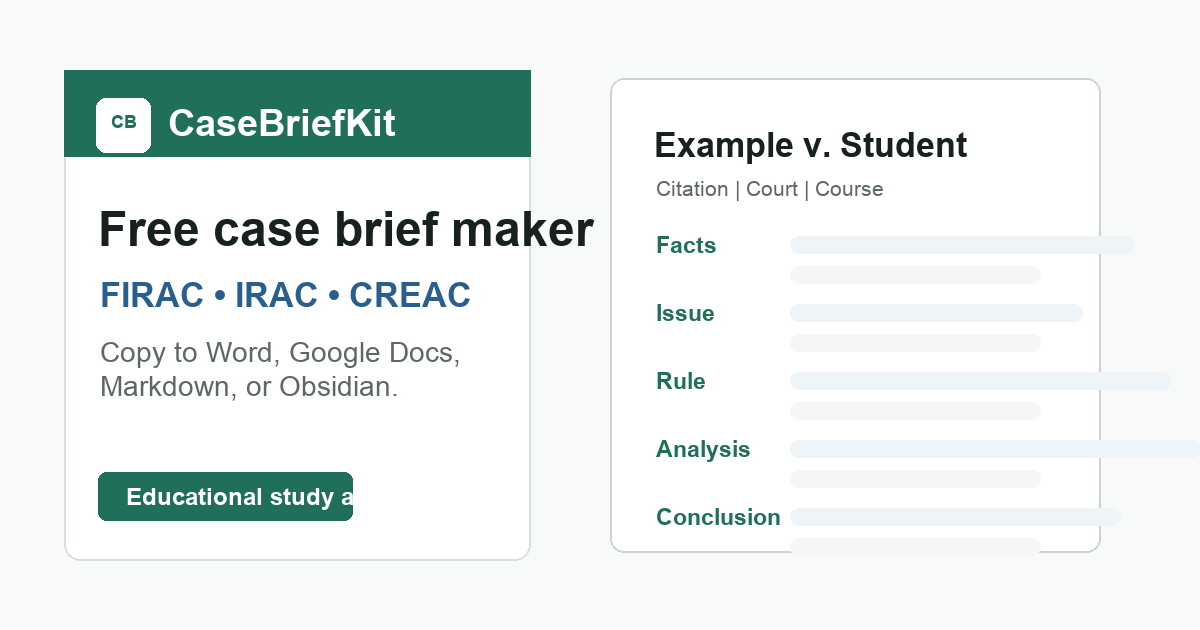
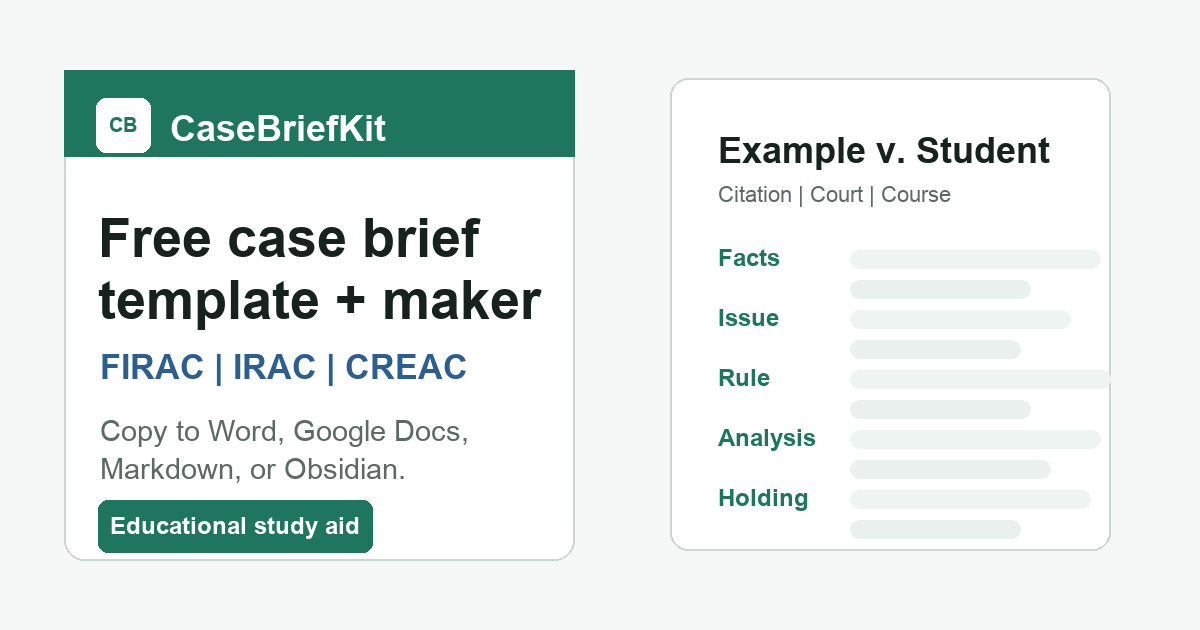
Improve social preview assets

diff --git a/styles.css b/styles.css
@@ -18,6 +18,12 @@
   box-sizing: border-box;
 }
 
+html,
+body {
+  max-width: 100%;
+  overflow-x: hidden;
+}
+
 body {
   margin: 0;
   color: var(--ink);
@@ -52,6 +58,7 @@ a:hover {
   width: min(1180px, calc(100% - 32px));
   min-height: 64px;
   margin: 0 auto;
+  min-width: 0;
 }
 
 .brand {
@@ -80,6 +87,7 @@ a:hover {
   justify-content: flex-end;
   gap: 10px 18px;
   font-size: 14px;
+  min-width: 0;
 }
 
 .page {
@@ -442,6 +450,7 @@ select:focus {
 .content-main {
   display: grid;
   gap: 16px;
+  min-width: 0;
 }
 
 .content-block {
@@ -450,6 +459,13 @@ select:focus {
   background: var(--surface);
   padding: 20px;
   box-shadow: 0 10px 28px rgba(27, 42, 38, 0.08);
+  min-width: 0;
+  overflow-wrap: anywhere;
+}
+
+.content-block iframe {
+  display: block;
+  max-width: 100%;
 }
 
 .content-block h1,

diff --git a/scripts/build_social_assets.py b/scripts/build_social_assets.py
@@ -1,0 +1,99 @@
+#!/usr/bin/env python3
+"""Generate social sharing images for CaseBriefKit."""
+
+from __future__ import annotations
+
+from pathlib import Path
+
+from PIL import Image, ImageDraw, ImageFont
+
+
+ROOT = Path(__file__).resolve().parents[1]
+ASSETS = ROOT / "assets"
+OG_PATH = ASSETS / "casebriefkit-og.png"
+ICON_PATH = ASSETS / "casebriefkit-icon.png"
+
+GREEN = "#1f765f"
+INK = "#17211e"
+BLUE = "#2b5f92"
+MUTED = "#5d6965"
+BORDER = "#ccd6d2"
+PAPER = "#f7faf8"
+LINE = "#e9f0ed"
+
+
+def font(path: str, size: int) -> ImageFont.FreeTypeFont:
+    return ImageFont.truetype(path, size)
+
+
+FONT_REGULAR = "/System/Library/Fonts/Supplemental/Arial.ttf"
+FONT_BOLD = "/System/Library/Fonts/Supplemental/Arial Bold.ttf"
+
+
+def draw_round_rect(draw: ImageDraw.ImageDraw, xy: tuple[int, int, int, int], radius: int, fill: str, outline: str | None = None, width: int = 1) -> None:
+    draw.rounded_rectangle(xy, radius=radius, fill=fill, outline=outline, width=width)
+
+
+def draw_icon() -> None:
+    image = Image.new("RGB", (512, 512), GREEN)
+    draw = ImageDraw.Draw(image)
+    draw_round_rect(draw, (96, 96, 416, 416), 64, "#ffffff")
+    mark = font(FONT_BOLD, 150)
+    draw.text((256, 258), "CB", anchor="mm", font=mark, fill=GREEN)
+    image.save(ICON_PATH)
+
+
+def draw_preview_card(draw: ImageDraw.ImageDraw) -> None:
+    draw_round_rect(draw, (670, 78, 1110, 550), 18, "#ffffff", BORDER, 2)
+    title = font(FONT_BOLD, 36)
+    small = font(FONT_REGULAR, 22)
+    label = font(FONT_BOLD, 24)
+    draw.text((718, 130), "Example v. Student", font=title, fill=INK)
+    draw.text((718, 182), "Citation | Court | Course", font=small, fill=MUTED)
+    y = 250
+    for name, width_a, width_b in [
+        ("Facts", 250, 180),
+        ("Issue", 220, 170),
+        ("Rule", 260, 180),
+        ("Analysis", 250, 200),
+        ("Holding", 240, 170),
+    ]:
+        draw.text((718, y - 6), name, font=label, fill=GREEN)
+        draw_round_rect(draw, (850, y, 850 + width_a, y + 18), 9, "#edf4f1")
+        draw_round_rect(draw, (850, y + 30, 850 + width_b, y + 48), 9, LINE)
+        y += 60
+
+
+def draw_og() -> None:
+    image = Image.new("RGB", (1200, 630), "#f5f8f6")
+    draw = ImageDraw.Draw(image)
+
+    draw_round_rect(draw, (64, 70, 574, 560), 20, "#ffffff", BORDER, 2)
+    draw.rectangle((64, 70, 574, 156), fill=GREEN)
+    draw_round_rect(draw, (96, 98, 150, 152), 10, "#ffffff")
+    draw.text((123, 125), "CB", anchor="mm", font=font(FONT_BOLD, 20), fill=GREEN)
+    draw.text((170, 108), "CaseBriefKit", font=font(FONT_BOLD, 36), fill="#ffffff")
+
+    draw.text((98, 208), "Free case brief", font=font(FONT_BOLD, 54), fill=INK)
+    draw.text((98, 270), "template + maker", font=font(FONT_BOLD, 54), fill=INK)
+    draw.text((100, 348), "FIRAC | IRAC | CREAC", font=font(FONT_BOLD, 34), fill=BLUE)
+    draw.text((100, 414), "Copy to Word, Google Docs,", font=font(FONT_REGULAR, 29), fill=MUTED)
+    draw.text((100, 452), "Markdown, or Obsidian.", font=font(FONT_REGULAR, 29), fill=MUTED)
+    draw_round_rect(draw, (98, 500, 372, 552), 10, GREEN)
+    draw.text((235, 526), "Educational study aid", anchor="mm", font=font(FONT_BOLD, 24), fill="#ffffff")
+
+    draw_preview_card(draw)
+    image.save(OG_PATH, quality=95)
+
+
+def main() -> int:
+    ASSETS.mkdir(parents=True, exist_ok=True)
+    draw_icon()
+    draw_og()
+    print(f"wrote={ICON_PATH}")
+    print(f"wrote={OG_PATH}")
+    return 0
+
+
+if __name__ == "__main__":
+    raise SystemExit(main())

diff --git a/verify-free-site.py b/verify-free-site.py
@@ -162,9 +162,18 @@ def verify_assets() -> list[str]:
         failures.append("missing ads.txt")
     if not (ROOT / "advertise.html").exists():
         failures.append("missing advertise.html")
-    for required_script in ["scripts/apply_analytics.py", "scripts/check_analytics.py", "scripts/build_clean_urls.py"]:
+    for required_script in [
+        "scripts/apply_analytics.py",
+        "scripts/check_analytics.py",
+        "scripts/build_clean_urls.py",
+        "scripts/build_social_assets.py",
+        "scripts/submit_indexnow.py",
+    ]:
         if not (ROOT / required_script).exists():
             failures.append(f"missing {required_script}")
+    for required_image in ["assets/casebriefkit-icon.png", "assets/casebriefkit-og.png"]:
+        if not (ROOT / required_image).exists():
+            failures.append(f"missing {required_image}")
     return failures
 
 